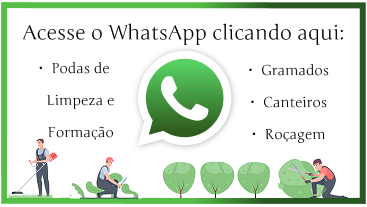
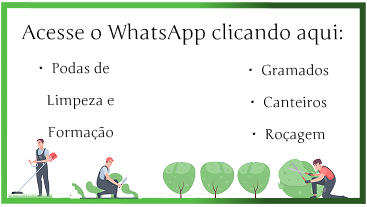
ajustes botao e cartao

Changed region(s): [[0.0599, 0.1159, 0.9292, 0.7246]]

diff --git a/src/app/page.module.css b/src/app/page.module.css
@@ -28,6 +28,10 @@
   color: black;
 }
 
+.header h1 {
+  font-size: 4vh;
+}
+
 .main {
 
   display: flex
@@ -48,8 +52,87 @@
 }
 
 .cartao img {
-  width: 90%;
+  width: 100%;
+  z-index: 1;
 }
+
+
+/*Efeitos de botão*/
+
+.buttonblur {
+  position: relative;
+  overflow: hidden;
+  color: white;
+  background-color: #0ba52d80; 
+  
+  border-radius: 50%;
+  font-size: 16px;
+  font-weight: bold;
+  cursor: pointer;
+  border: none;
+  display: flex;
+  align-items: center;
+  justify-content: center;
+  z-index: 1;  
+  padding: 0px;
+
+}
+
+/* Efeito de Blur Giratório*/
+.buttonblur .blureffect {
+  position: absolute;
+  width: 150%;
+  height: 150%;
+  top: -25%;
+  left: -25%;
+  background-color: white;
+  filter: blur(20px);
+  opacity: 0.8;
+  animation: spin-slow 3s linear infinite;  
+}
+
+.shine {
+  position: absolute;
+  top: 0;
+  left: -100%;
+  width: 100%;
+  height: 100%;
+  background: linear-gradient(
+    120deg,
+    rgba(255, 255, 255, 0) 10%,
+    rgba(255, 255, 255, 0.6) 20%,
+    rgba(255, 255, 255, 0) 30%
+  );
+  transform: skewX(-20deg);
+  animation: shine-move 2.5s infinite linear;
+  z-index: 11; /* Mantém o brilho acima do botão */
+}
+
+
+ 
+@keyframes spin-slow {
+  0% { transform: rotate(0deg) translate(0, 0); }
+  100% { transform: rotate(360deg) translate(0, 0); }
+}
+
+@keyframes shine-move {
+  from {
+    left: -100%;
+  }
+  to {
+    left: 200%;
+  }
+}
+
+/*Efeitos de botão*/
+
+.imgwhats {
+
+  position: absolute;
+  margin-top: 11%;
+  width: 15vh;
+}
+
 
 
 .footer {

diff --git a/src/app/page.tsx b/src/app/page.tsx
@@ -11,16 +11,28 @@ export default function Home() {
         <h1 className={styles.title}>
           Podas, Jardinagem e <br></br> Limpeza de Terreno
         </h1>
-        <Folha/>
+        <Folha />
       </div>
       <main className={styles.main}>
-        <div className={styles.cartao} ><a href="https://w.app/hdbpuy" > <img src="./cartao.png"></img></a></div>
+        <div className={styles.cartao}>
+          <a href="https://w.app/hdbpuy">
+            {" "}
+            <img src="./cartao.png"></img>
+
+
+            <button className={styles.imgwhats}>
+              <div className={styles.buttonblur}>
+              <img src="./whats.png" ></img>{" "}
+              <span className={styles.blureffect}></span>
+              <span className={styles.shine}></span>
+              </div>
+            </button>
+          </a>
+        </div>
         <Slider />
       </main>
       <footer className={styles.footer}>
-        <h3>
-          Florianópolis/Sul da Ilha
-        </h3>
+        <h3>Florianópolis/Sul da Ilha</h3>
       </footer>
     </div>
   );

diff --git a/src/app/Components/folha.module.css b/src/app/Components/folha.module.css
@@ -1,5 +1,5 @@
 .folha {
 
     width: 15vh;
-    margin-top: -11%;
+    margin-top: -5%;
   }
